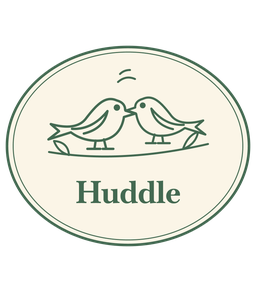
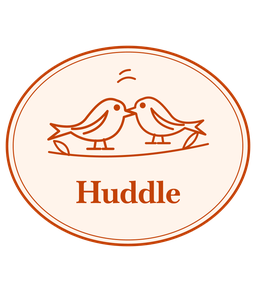
Footer pen writes Thanks for scrolling.; recoloured Huddle, Ornata and Kingston stamps
Claude-Session: https://claude.ai/code/session_01UxY9VEaxH5QGgCxVyG8bTY

diff --git a/index.html b/index.html
@@ -1752,7 +1752,7 @@ h4,.or-change-text h4,.kc-opt-text h4,.folder h3,.ds-sec > h2,.ab-dlg-body h3,.a
 @media (prefers-reduced-motion:reduce){.pc-pic,.pc-note,.pc-more span{transition:none}}
 /* pc:end */
 /* ==========================================================================
-   spf:start · Footer sign-off: a pen signs "Violet" above the footer line
+   spf:start · Footer sign-off: a pen writes "Thanks for scrolling." above the footer line
    ========================================================================== */
 .spf{--spf-pen-hi:#ffffff;--spf-pen-mid:#f4f0f2;--spf-pen-lo:#cfc6cc;--spf-pen-edge:#b2a7ae;position:relative;overflow:clip;container-type:inline-size;display:flex;flex-direction:column}
 .spf-main{display:flex;justify-content:center;padding:clamp(40px,6cqw,80px) 20px clamp(8px,1.5cqw,16px)}
@@ -3151,7 +3151,7 @@ h4,.or-change-text h4,.kc-opt-text h4,.folder h3,.ds-sec > h2,.ab-dlg-body h3,.a
 <footer class="foot band spf">
   <div class="spf-main">
     <div class="spf-stage">
-      <svg class="spf-svg" role="img" aria-label="Signature: Violet"></svg>
+      <svg class="spf-svg" role="img" aria-label="Signature: Thanks for scrolling."></svg>
       <button type="button" class="spf-again" aria-label="Sign again"><svg viewBox="0 0 16 16" fill="none" stroke="currentColor" stroke-width="1.6" stroke-linecap="round" stroke-linejoin="round" aria-hidden="true"><path d="M2.5 8a5.5 5.5 0 1 0 1.7-4"/><path d="M2.2 1.8v2.6h2.6"/></svg>Sign again</button>
     </div>
   </div>
@@ -3755,14 +3755,14 @@ var SITE = {
   measure();
 })();
 /* lt:end */
-/* spf:start · Footer sign-off: a pen writes "Violet" when the footer comes into view, then rests; after that you can write with it.
+/* spf:start · Footer sign-off: a pen writes "Thanks for scrolling." when the footer comes into view, then rests; after that you can write with it.
    Ported to plain JS from the Signature Pen Footer component. Handwriting glyphs derived from EMS Allure
    (Sheldon B. Michaels, SVG by Windell H. Oskay), after Allura by Rob Leuschke, TypeSETit, all SIL Open Font License 1.1. */
 (function(){
   var root = document.querySelector('.spf'); if (!root) return;
   var stage = root.querySelector('.spf-stage'), svg = root.querySelector('.spf-svg'), again = root.querySelector('.spf-again'), stampEl = root.querySelector('.spf-stamp');
-  var WORD = 'Violet', DURATION = 2.4;
-  var GLYPHS = {"V":[737, "54 454 0 529 25 611 73 646 189 668 302 677 391 677 447 655 469 649|331 718 337 586 299 482 258 410 211 290 164 167 142 82 145 -9 186 -38 277 -38 400 32 532 154 677 343 784 507 844 598 895 662 939 696 983 724 1002 724"],"i":[249, "-31 183 38 236 60 328 -38 85 -19 22 54 6 132 69 183 129 217 183|123 476 95 438"],"o":[391, "195 337 142 365 66 315 -6 233 -41 161 -57 76 13 9 101 41 183 110 230 208 239 246 239 284 220 284|167 158 183 101 214 72 255 76 296 110 359 183"],"l":[261, "-25 176 91 265 239 428 346 589 394 662 381 709 312 718 243 674 148 532 41 340 -28 198 -50 85 -22 25 44 19 120 54 195 132 230 183"],"e":[346, "66 170 148 211 217 249 252 306 239 350 180 356 63 287 16 252 -35 192 -66 139 -72 88 -50 44 32 9 170 44 214 82 277 135 315 183"],"t":[290, "-31 183 19 224 54 261 110 337 183 457 217 510 183 517 9 151 -6 66 19 22 98 28 192 110 258 183|54 346 258 356"]};
+  var WORD = 'Thanks for scrolling.', DURATION = 3.6;
+  var GLYPHS = {".":[224, "145 63 129 38"],"T":[554, "57 378 9 425 -3 501 38 592 113 646 198 677 287 690 466 687 639 665 806 662 860 674 825 690 743 580 734 539 728 485 743 463|529 570 450 539 391 476 324 353 239 205 180 66 180 25 198 0 230 22 268 63"],"a":[526, "495 183 457 132 406 79 331 32 271 19 243 63 255 142 296 274 277 243 176 145 69 57 -19 19 -63 66 -57 154 35 261 148 331 230 356 312 356 324 343"],"c":[346, "243 306 239 350 198 365 101 328 -16 208 -47 170 -72 110 -66 66 -47 25 57 16 186 57 268 123 315 183"],"f":[334, "-110 -365 -60 -321 9 -94 104 154 198 369 277 517 328 617 419 696 466 718 523 696 507 598 406 444 290 321 220 261 173 220 117 192 25 183 28 208 208 205 306 217"],"g":[469, "306 350 195 353 69 287 -16 205 -57 164 -79 110 -60 57 -19 19 91 69 176 158 265 252 287 274 318 274 164 -85 35 -331 -22 -381 -72 -410 -117 -416 -167 -381 -148 -280 -79 -220 22 -132 85 -88 258 22 369 110 438 183"],"h":[561, "-31 183 113 315 343 482 447 605 469 702 394 718 324 662 255 586 180 457 101 309 13 32 110 148 192 252 287 315 328 334 350 312 340 261 290 183 261 76 284 19 350 19 413 63 482 129 529 183"],"i":[249, "-31 183 38 236 60 328 -38 85 -19 22 54 6 132 69 183 129 217 183|123 476 95 438"],"k":[356, "-31 183 32 252 98 337|73 356 158 356 271 428 381 542 438 627 450 696 406 728 318 696 249 617 183 498 126 394 19 139 -19 13 25 54 113 173 214 284 290 343 340 346|139 249 186 44 258 -85 362 -148 428 -148 457 -120 460 -101 457 -66"],"l":[261, "-25 176 91 265 239 428 346 589 394 662 381 709 312 718 243 674 148 532 41 340 -28 198 -50 85 -22 25 44 19 120 54 195 132 230 183"],"n":[580, "148 328 41 25 183 186 271 280 334 318 381 337 394 312 331 195 290 101 293 47 328 16 387 25 450 69 513 132 548 183"],"o":[391, "195 337 142 365 66 315 -6 233 -41 161 -57 76 13 9 101 41 183 110 230 208 239 246 239 284 220 284|167 158 183 101 214 72 255 76 296 110 359 183"],"r":[369, "-31 183 35 287 154 463 47 391 47 365 60 356 258 353 145 214 82 101 98 22 186 28 296 132 337 183"],"s":[302, "-31 183 9 217 35 261 66 328 117 394 249 447 293 454 343 444 350 413 343 381 328 365|54 274 73 233 161 183 198 135 195 88 151 35 79 -6 32 -28 -25 -31 -35 -19 -35 16 -16 35"]};
   var ASCENT = 800, SPACE = 378, JOIN = 16, NIB = 26, CONE = 300, RAD = 74, ANGLE = -31, NS = 'http://www.w3.org/2000/svg';
   function r1(v){ return Math.round(v * 10) / 10; }
   function smoothCubics(pts){
